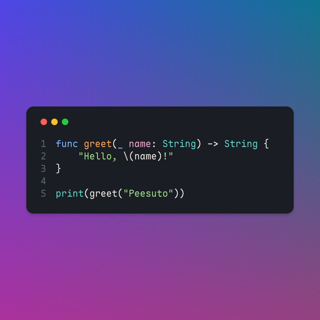
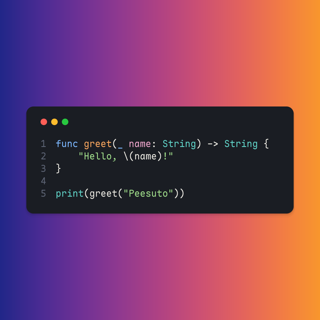
feat(templates): code backdrop walks the hue circle instead of blending in RGB
A two-colour RGB gradient between distant hues passes through grey. The
terminal backdrop now samples a hue arc in OKLCH (indigo to amber through
violet, magenta and coral) and draws it as adjacent two-stop segments, the
only gradient the engine has; each segment spans nearby colours, so its
midpoint stays on the arc. The tinted overlay is gone: any tint laid across
different hues muddies them.

diff --git a/core/src/templates/compose.ts b/core/src/templates/compose.ts
@@ -9,6 +9,7 @@ import { layoutDiagram, type DiagramNode } from "./diagram.ts";
 import { encodeQr, qrRuns } from "./qr.ts";
 import { highlight, type CodePalette } from "./highlight.ts";
 import { FRAMES, TEMPLATE_MAX_GRAPHEMES, type TemplateId, type TemplateMotion, type TemplatePlan } from "./types.ts";
+import { sampleArc, type HueArc } from "./gradient.ts";
 
 export const TEMPLATE_LIMITS = { maxHeight: 4096, maxGraphemes: TEMPLATE_MAX_GRAPHEMES, fps: 30, typingMaxMs: 4200, holdMs: 1200 } as const;
 /** GIF/MP4 content taller than the frame scrolls through it (the frame never
@@ -104,11 +105,16 @@ export const QUOTE_STYLES = {
  * type (types, classes, built-ins), property (attributes, properties,
  * variables, parameters), literal (true/false/null, symbols), meta (tags,
  * selectors, decorators, headings, diff deletions), punct (operators). */
+/** A full-bleed backdrop layer: one two-stop gradient, or a hue arc drawn as segments (gradient.ts). */
+type BackdropLayer = { readonly dir: "t" | "b" | "l" | "r"; readonly from: string; readonly to: string } | { readonly arc: HueArc; readonly segments: number };
+
 export const CODE_STYLES = {
   /** Terminal: night panel, three dots, the language (from the fence only) at top right. */
   classic: { background: "#312e81",
-    /** Full-bleed layers behind the window, bottom first: a left-to-right wash, then a top-to-bottom tint fading in. */
-    backdrop: [{ dir: "r", from: "#4f46e5", to: "#0e7490" }, { dir: "b", from: "#db277700", to: "#db2777a6" }],
+    /** Full-bleed layers behind the window: one hue arc left to right (indigo, violet, magenta,
+     * coral, amber), saturated all the way, never grey in the middle. No overlay: any tint laid
+     * across different hues (even black over orange, which turns brown) muddies them again. */
+    backdrop: [{ arc: { from: { l: 0.34, c: 0.16, h: 272 }, to: { l: 0.76, c: 0.16, h: 62 }, turn: 150 }, segments: 8 }],
     panel: { fill: "#1a1d23", radius: 24, pad: 48, header: 80, shadow: "shadow-lg", dots: { size: 22, gap: 14, colors: ["#ff5f57", "#febc2e", "#28c840"] } },
     lineNumbers: { color: "#5b6272", gap: 32 },
     outer: 88, gutter: null, zebra: null, ink: "#e8e6df", sizes: [52, 48, 44, 40, 36, 32, 28], floor: 32, leading: 1.0,
@@ -835,8 +841,18 @@ function layoutAt(plan: TemplatePlan, measure: TemplateMeasure, view: View, k = 
         ?? sizes.find((sz) => sz <= s.floor && fits(sz)) ?? sizes[sizes.length - 1]!;
       const codeX = textX + gutterW(size), codeW = textW - gutterW(size);
       const backdrop: TemplateRect[] = [];
-      for (const layer of s.backdrop ?? []) {
-        const r = rect(0, 0, W, 0, layer.to); r.gradient = layer as TemplateRect["gradient"]; pinned.add(r); backdrop.push(r);
+      for (const layer of (s.backdrop ?? []) as readonly BackdropLayer[]) {
+        if ("arc" in layer) {
+          // A hue arc as adjacent left-to-right segments on whole pixels, so the seams meet exactly.
+          const colors = sampleArc(layer.arc, layer.segments);
+          for (let i = 0; i < layer.segments; i++) {
+            const x0 = Math.round((W * i) / layer.segments), x1 = Math.round((W * (i + 1)) / layer.segments);
+            const r = rect(x0, 0, x1 - x0, 0, colors[i + 1]!); r.gradient = { dir: "r", from: colors[i]!, to: colors[i + 1]! };
+            pinned.add(r); backdrop.push(r);
+          }
+          continue;
+        }
+        const r = rect(0, 0, W, 0, layer.to); r.gradient = layer; pinned.add(r); backdrop.push(r);
       }
       let y = margin; const top = y;
       let panel: TemplateRect | undefined;

diff --git a/core/tests/gradient.test.ts b/core/tests/gradient.test.ts
@@ -1,0 +1,46 @@
+/** Hue-arc gradients: colourful all the way, unlike a straight RGB blend. */
+import { describe, expect, test } from "bun:test";
+import { oklchHex, sampleArc } from "../src/templates/gradient.ts";
+import { CODE_STYLES, layoutTemplate, type TemplateMeasure } from "../src/templates/compose.ts";
+import { samplePlan } from "./fixtures/templates.ts";
+
+const rgb = (hex: string) => [1, 3, 5].map((i) => parseInt(hex.slice(i, i + 2), 16) / 255);
+/** HSV saturation, 0 for grey. */
+const saturation = (c: number[]) => { const max = Math.max(...c), min = Math.min(...c); return max ? (max - min) / max : 0; };
+const mid = (a: string, b: string) => rgb(a).map((v, i) => (v + rgb(b)[i]!) / 2);
+
+describe("hue arcs", () => {
+  test("colours are #rrggbb, out-of-gamut chroma is reduced rather than clipped to another hue", () => {
+    expect(oklchHex({ l: 0, c: 0, h: 0 })).toBe("#000000");
+    expect(oklchHex({ l: 1, c: 0, h: 0 })).toBe("#ffffff");
+    const vivid = oklchHex({ l: 0.7, c: 0.4, h: 150 }); // far outside sRGB
+    expect(vivid).toMatch(/^#[0-9a-f]{6}$/);
+    const [r, g, b] = rgb(vivid);
+    expect(g).toBeGreaterThan(r!); expect(g).toBeGreaterThan(b!); // still green
+  });
+
+  test("the code backdrop never passes through grey, even between segment stops", () => {
+    const layer = CODE_STYLES.classic.backdrop[0]!;
+    const colors = sampleArc(layer.arc, layer.segments);
+    expect(colors).toHaveLength(layer.segments + 1);
+    for (const c of colors) expect(saturation(rgb(c))).toBeGreaterThan(0.45);
+    for (let i = 0; i < layer.segments; i++) expect(saturation(mid(colors[i]!, colors[i + 1]!))).toBeGreaterThan(0.45);
+    // The two ends blended straight in RGB would be much greyer: the reason for the arc.
+    expect(saturation(mid(colors[0]!, colors.at(-1)!))).toBeLessThan(saturation(mid(colors[3]!, colors[5]!)));
+  });
+
+  test("segments tile the full width on whole pixels, each stop shared with its neighbour", () => {
+    const metrics: TemplateMeasure = { width: (t, s) => [...t].length * s * 0.6, lineHeight: (s) => s * 1.2 };
+    const layout = layoutTemplate(samplePlan({ kind: "code", code: "echo hi" }), metrics);
+    const segments = layout.shapes.filter((s) => s.gradient && s.y === 0).sort((a, b) => a.x - b.x);
+    expect(segments.length).toBe(CODE_STYLES.classic.backdrop[0]!.segments);
+    expect(segments[0]!.x).toBe(0);
+    for (let i = 1; i < segments.length; i++) {
+      expect(segments[i]!.x).toBe(segments[i - 1]!.x + segments[i - 1]!.width);
+      expect(segments[i]!.gradient!.from).toBe(segments[i - 1]!.gradient!.to);
+    }
+    const last = segments.at(-1)!;
+    expect(last.x + last.width).toBe(layout.width);
+    for (const s of segments) { expect(Number.isInteger(s.x)).toBe(true); expect(s.height).toBe(layout.height); }
+  });
+});

diff --git a/core/src/templates/gradient.ts b/core/src/templates/gradient.ts
@@ -1,0 +1,53 @@
+/**
+ * Gradients that stay colourful in the middle. A straight line between two
+ * colours in RGB passes through grey (navy to yellow is muddy at the
+ * midpoint); walking the hue circle keeps every step saturated. The engine
+ * only draws two-stop linear gradients, so a hue arc is sampled in OKLCH
+ * (perceptually even steps) and drawn as adjacent two-stop segments: each
+ * segment spans nearby colours, so its RGB midpoint is still on the arc.
+ */
+
+export interface Oklch { readonly l: number; readonly c: number; readonly h: number }
+
+/** A hue arc: from one OKLCH colour to another, hue moving by `turn` degrees (sign = direction). */
+export interface HueArc { readonly from: Oklch; readonly to: Oklch; readonly turn: number }
+
+const toLinear = (v: number) => (v <= 0.04045 ? v / 12.92 : ((v + 0.055) / 1.055) ** 2.4);
+const toGamma = (v: number) => (v <= 0.0031308 ? 12.92 * v : 1.055 * v ** (1 / 2.4) - 0.055);
+
+/** OKLCH → linear sRGB (may be out of gamut). */
+function linearRgb({ l, c, h }: Oklch): [number, number, number] {
+  const a = c * Math.cos((h * Math.PI) / 180), b = c * Math.sin((h * Math.PI) / 180);
+  const l_ = (l + 0.3963377774 * a + 0.2158037573 * b) ** 3;
+  const m_ = (l - 0.1055613458 * a - 0.0638541728 * b) ** 3;
+  const s_ = (l - 0.0894841775 * a - 1.291485548 * b) ** 3;
+  return [
+    4.0767416621 * l_ - 3.3077115913 * m_ + 0.2309699292 * s_,
+    -1.2684380046 * l_ + 2.6097574011 * m_ - 0.3413193965 * s_,
+    -0.0041960863 * l_ - 0.7034186147 * m_ + 1.707614701 * s_,
+  ];
+}
+
+const inGamut = (rgb: readonly number[]) => rgb.every((v) => v >= -1e-4 && v <= 1 + 1e-4);
+
+/** The colour as #rrggbb, chroma reduced (hue and lightness kept) until it fits sRGB. */
+export function oklchHex(color: Oklch): string {
+  let rgb = linearRgb(color);
+  if (!inGamut(rgb)) {
+    let lo = 0, hi = color.c;
+    for (let i = 0; i < 24; i++) {
+      const mid = (lo + hi) / 2;
+      if (inGamut(linearRgb({ ...color, c: mid }))) lo = mid; else hi = mid;
+    }
+    rgb = linearRgb({ ...color, c: lo });
+  }
+  return `#${rgb.map((v) => Math.round(toGamma(Math.min(1, Math.max(0, v))) * 255).toString(16).padStart(2, "0")).join("")}`;
+}
+
+/** `steps + 1` colours evenly along the arc, as #rrggbb. */
+export function sampleArc(arc: HueArc, steps: number): string[] {
+  return Array.from({ length: steps + 1 }, (_, i) => {
+    const t = i / steps;
+    return oklchHex({ l: arc.from.l + (arc.to.l - arc.from.l) * t, c: arc.from.c + (arc.to.c - arc.from.c) * t, h: (((arc.from.h + arc.turn * t) % 360) + 360) % 360 });
+  });
+}

diff --git a/docs/templates.md b/docs/templates.md
@@ -122,6 +122,14 @@ engine bakes; everything else is boxes and text.
   built-ins), property (attributes, properties, variables, parameters), literal
   (true/false/null, symbols), meta (tags, selectors, decorators, headings, diff
   deletions; diff additions use string), punct (operators, punctuation).
+- Backdrop (Terminal): a hue arc, not a two-colour blend. A straight RGB
+  gradient between distant hues goes grey in the middle; walking the hue circle
+  stays saturated. `core/src/templates/gradient.ts` samples the arc in OKLCH
+  (even perceptual steps, chroma reduced to fit sRGB, hue and lightness kept)
+  and the backdrop draws it as adjacent two-stop segments on whole pixels,
+  since the engine only has two-stop gradients. Current arc: indigo, violet,
+  magenta, coral, amber (hue 272° to 62°, lightness 0.34 to 0.76). No overlay:
+  any tint across different hues (black over orange turns brown) muddies it.
 
 ### QR code: any text, by shortcut only
 

diff --git a/CHANGELOG.md b/CHANGELOG.md
@@ -7,6 +7,7 @@ section here becomes one.
 
 ## Unreleased
 
+- Code cards: the terminal backdrop is a hue arc (indigo, violet, magenta, coral, amber) sampled in OKLCH and drawn as segments, so it stays saturated end to end instead of greying in the middle like a two-colour RGB blend; the rose overlay is gone.
 - Settings › Templates: every template with a preview of each style. Switch a template off to keep it out of automatic choice (it stays available by hand), click a style to make it the default. Changes apply at once.
 - Latin text no longer splits inside a word: a comma could move a break back into "crop", an early space was out of reach of the look-back, and larger type was kept even when it split a word (seen in the comparison template).
 - The clipboard panel has no title bar or window buttons and runs to its top edge, on Liquid Glass (macOS 26; a behind-window blur before that), with hairline separators.
